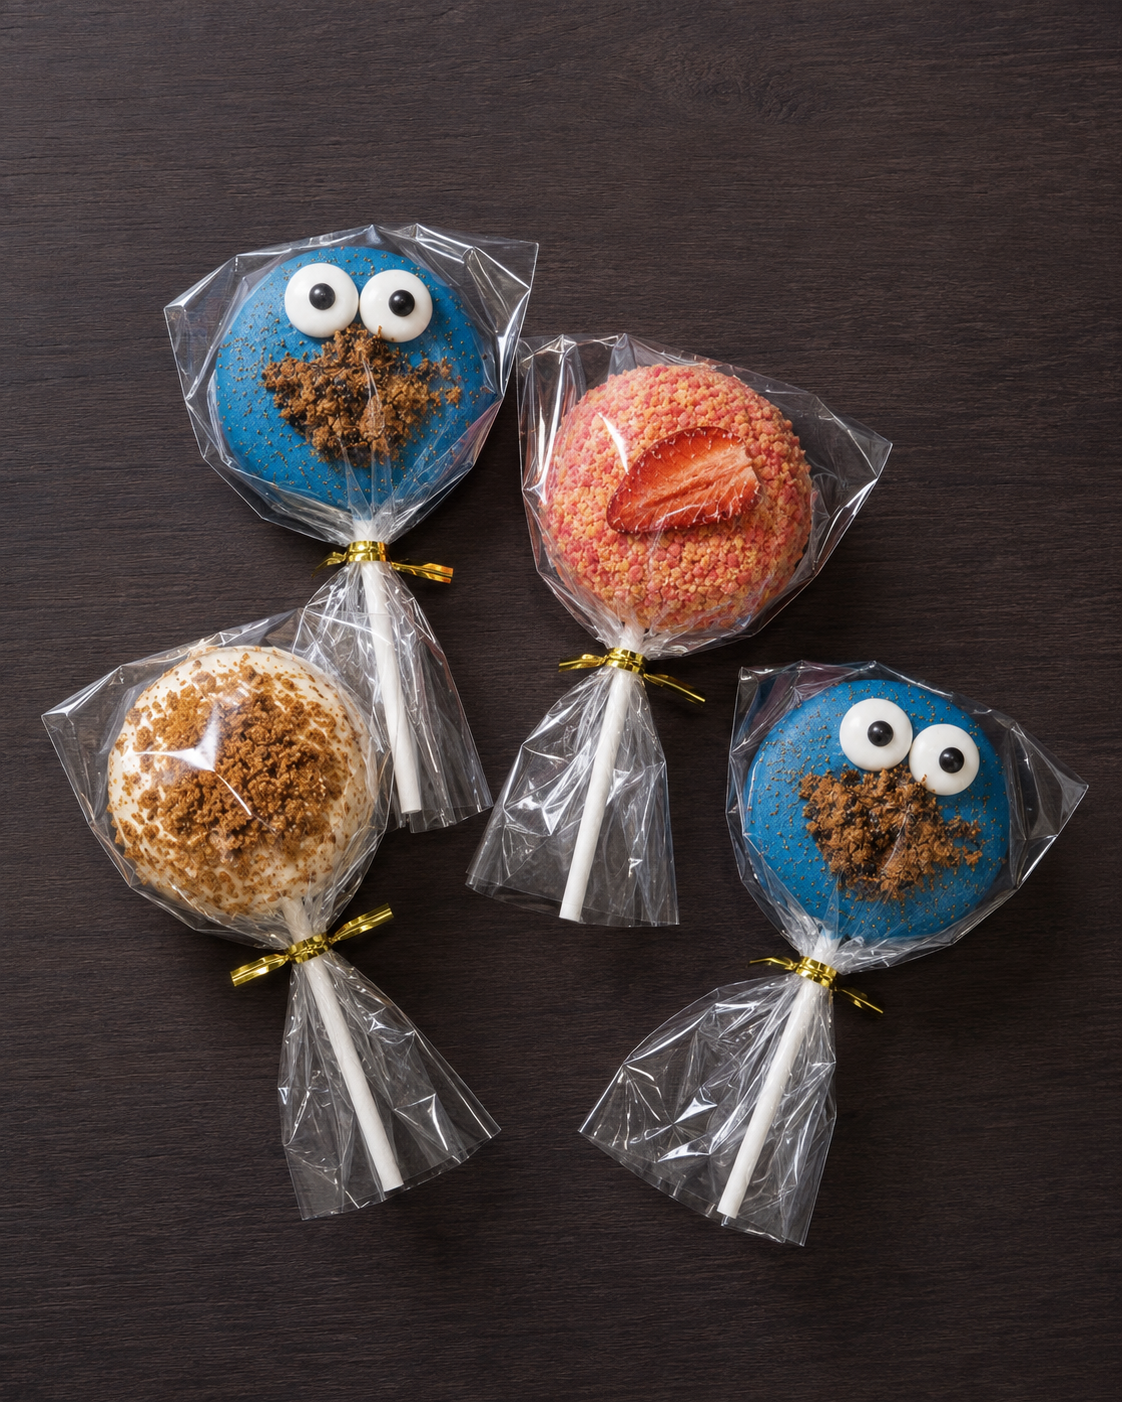
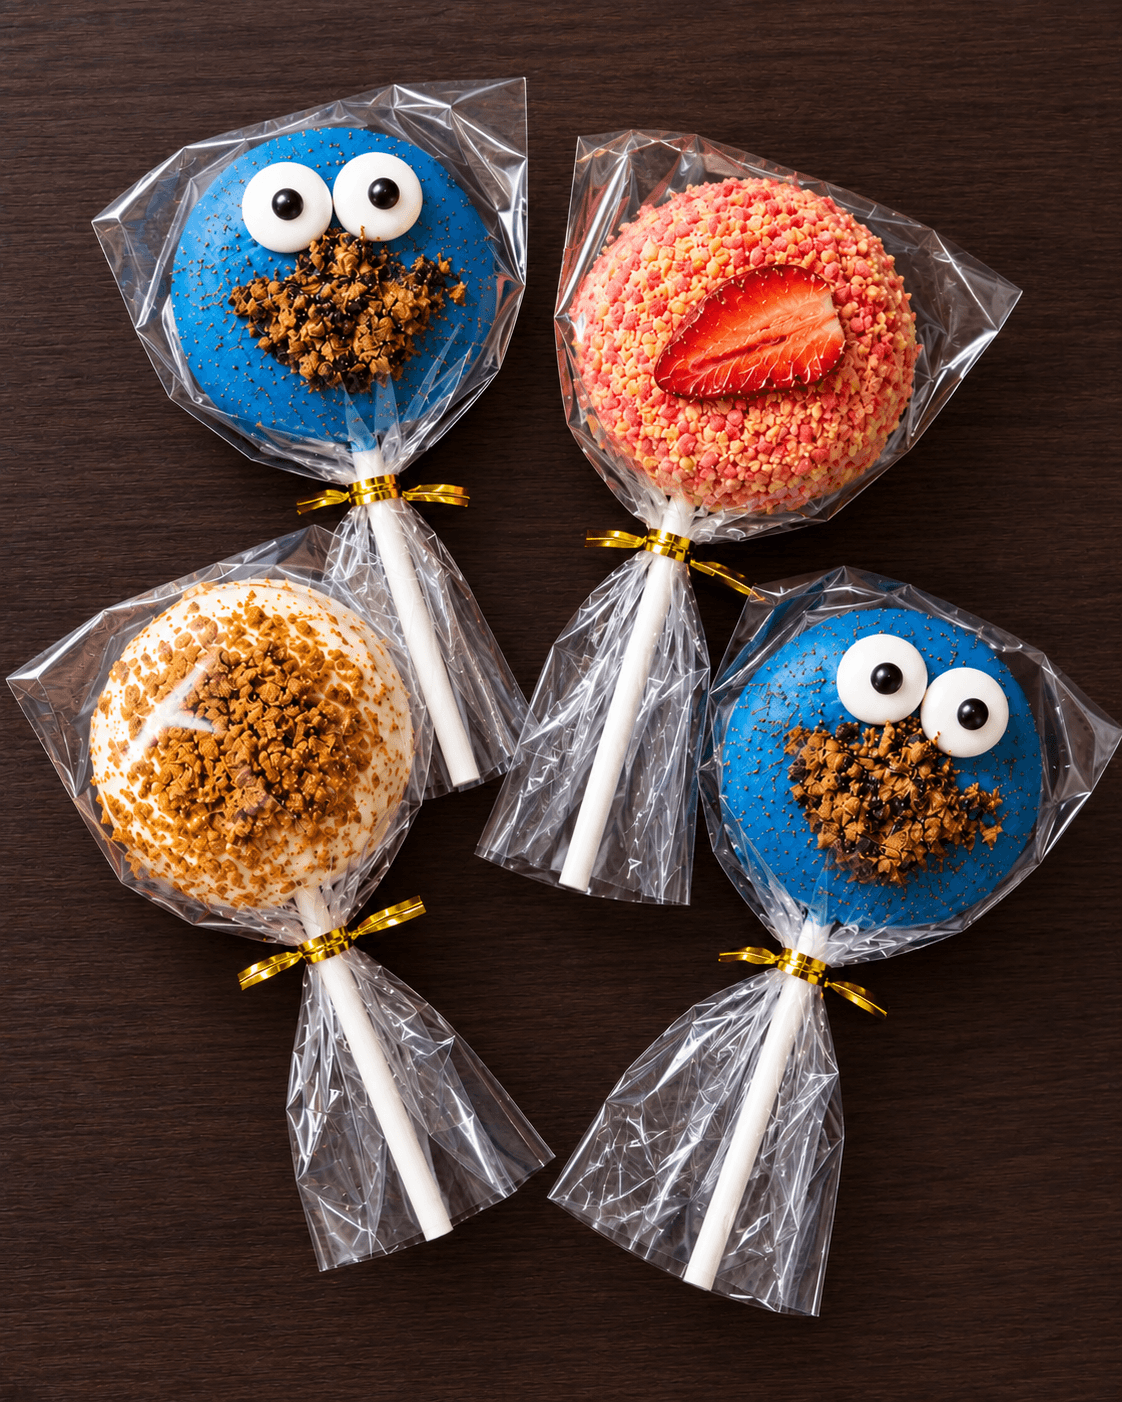
Use the new product photography across the storefront
Replaces the four-pack shot with the sharper version of the same composition
and adds three new styled assets: a plated assortment, a colourful close-up,
and a Cookie Monster / Strawberry Shortcake banner, which now sits under the
product grid on the home page.

The home hero and the bakery gallery deliberately keep Bonnie's original
photos. The product pages carry an "AI-styled image" disclosure that links to
that gallery as its honest counterpoint, so styled shots must not stand in for
the real ones the disclosure points at. Slots with no such claim take the new
photography, and their alt text says "Styled image of" to match.

Encoded as WebP (8.2MB saved) and recompressed the four-pack, which stays PNG
at 1122x1402 because the photo test asserts PNG magic and >=1000px.

diff --git a/app/page.js b/app/page.js
@@ -99,6 +99,17 @@ export default async function HomePage() {
           </p>
         </div>
       </section>
+      <section className="wrap flavor-banner rv-anim">
+        <Link href="/shop">
+          <Image
+            src="/products/bonbons-flavors-banner.webp"
+            alt="Styled image of two Bon Bon’s flavors side by side: Cookie Monster and Strawberry Shortcake"
+            width={2172}
+            height={724}
+            sizes="(max-width: 760px) 100vw, 1264px"
+          />
+        </Link>
+      </section>
       <section className="wrap bundle-editorial rv-anim">
         <div className="bundle-photo">
           <Image

diff --git a/app/shop/page.js b/app/shop/page.js
@@ -42,8 +42,8 @@ export default async function ShopPage() {
           </div>
           <div className="page-masthead-photo">
             <Image
-              src="/products/bonbons-real-pickup.jpg"
-              alt="Bon Bon’s wrapped cake pops with colorful sprinkles and cookie-crumb toppings"
+              src="/products/bonbons-assortment-styled.webp"
+              alt="Styled image of a marble plate of Bon Bon’s wrapped cake pops in sprinkle, cookie-crumb, strawberry, and cookies-and-cream finishes"
               fill
               priority
               sizes="280px"

diff --git a/app/occasions/page.js b/app/occasions/page.js
@@ -37,10 +37,10 @@ export default function OccasionsPage() {
               <Image
                 src={
                   [
-                    "/products/bonbons-real-assortment.jpg",
+                    "/products/bonbons-assortment-styled.webp",
                     "/products/bonbons-real-party-box.jpg",
                     "/products/bonbons-real-gift-box.jpg",
-                    "/products/bonbons-real-colorful-pops.jpg",
+                    "/products/bonbons-colorful-pops-styled.webp",
                   ][index % 4]
                 }
                 alt=""

diff --git a/app/cart/page.js b/app/cart/page.js
@@ -136,8 +136,8 @@ export default function CartPage() {
           <div className="tile" style={{ textAlign: "center", padding: 60 }}>
             <Image
               className="drawer-empty-photo"
-              src="/products/bonbons-real-assortment.jpg"
-              alt="Bon Bon’s wrapped cake-pop assortment"
+              src="/products/bonbons-colorful-pops-styled.webp"
+              alt="Styled image of Bon Bon’s wrapped cake-pop assortment"
               width={150}
               height={150}
             />

diff --git a/app/faq/page.js b/app/faq/page.js
@@ -29,8 +29,8 @@ export default function FaqPage() {
           </Link>
           <Image
             className="faq-photo"
-            src="/products/bonbons-real-pickup.jpg"
-            alt="Bon Bon’s individually wrapped sprinkle, cookie-crumb, and chocolate cake pops"
+            src="/products/bonbons-assortment-styled.webp"
+            alt="Styled image of Bon Bon’s individually wrapped sprinkle, cookie-crumb, and chocolate cake pops"
             width={400}
             height={280}
           />

diff --git a/components/CartDrawer.jsx b/components/CartDrawer.jsx
@@ -81,8 +81,8 @@ export default function CartDrawer() {
             <div className="drawer-empty">
               <Image
                 className="drawer-empty-photo"
-                src="/products/bonbons-real-assortment.jpg"
-                alt="Bon Bon’s wrapped cake-pop assortment"
+                src="/products/bonbons-colorful-pops-styled.webp"
+                alt="Styled image of Bon Bon’s wrapped cake-pop assortment"
                 width={150}
                 height={150}
               />

diff --git a/components/QuoteForm.jsx b/components/QuoteForm.jsx
@@ -285,8 +285,8 @@ export function QuoteAside() {
   return (
     <aside className="form-side">
       <Image
-        src="/products/bonbons-real-colorful-pops.jpg"
-        alt="Bon Bon’s individually wrapped cake pops in colorful finishes"
+        src="/products/bonbons-colorful-pops-styled.webp"
+        alt="Styled image of Bon Bon’s individually wrapped cake pops in colorful finishes"
         width={600}
         height={360}
         className="quote-aside-photo"

diff --git a/app/storefront.css b/app/storefront.css
@@ -438,6 +438,21 @@ body:not(:has(.mbar)) {
   font-size: 11px;
   color: var(--muted);
 }
+.flavor-banner {
+  max-width: 1264px;
+  margin-bottom: 28px;
+}
+.flavor-banner a {
+  display: block;
+  border: 1px solid var(--stroke);
+  border-radius: 12px;
+  overflow: hidden;
+}
+.flavor-banner img {
+  display: block;
+  width: 100%;
+  height: auto;
+}
 .bundle-editorial {
   display: grid;
   grid-template-columns: 1fr 1fr;

diff --git a/app/occasions/[slug]/page.js b/app/occasions/[slug]/page.js
@@ -33,7 +33,7 @@ export default async function OccasionPage({ params }) {
 
           <div className="occasion-detail-hero rv-anim">
             <Image
-              src="/products/bonbons-real-colorful-pops.jpg"
+              src="/products/bonbons-colorful-pops-styled.webp"
               alt=""
               fill
               priority
